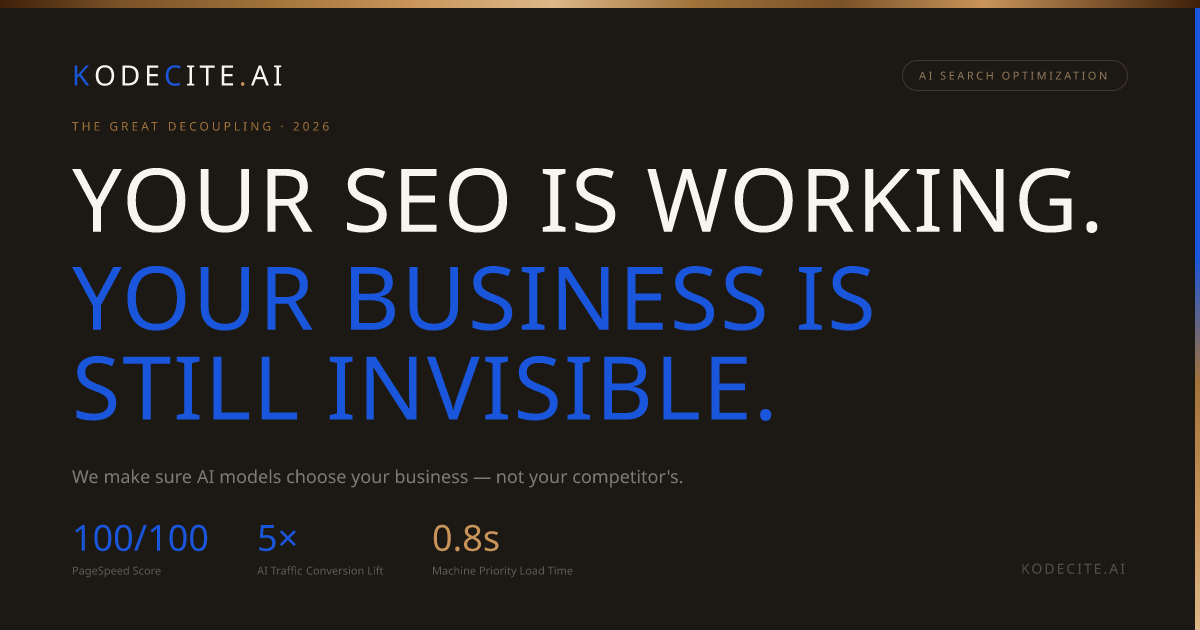
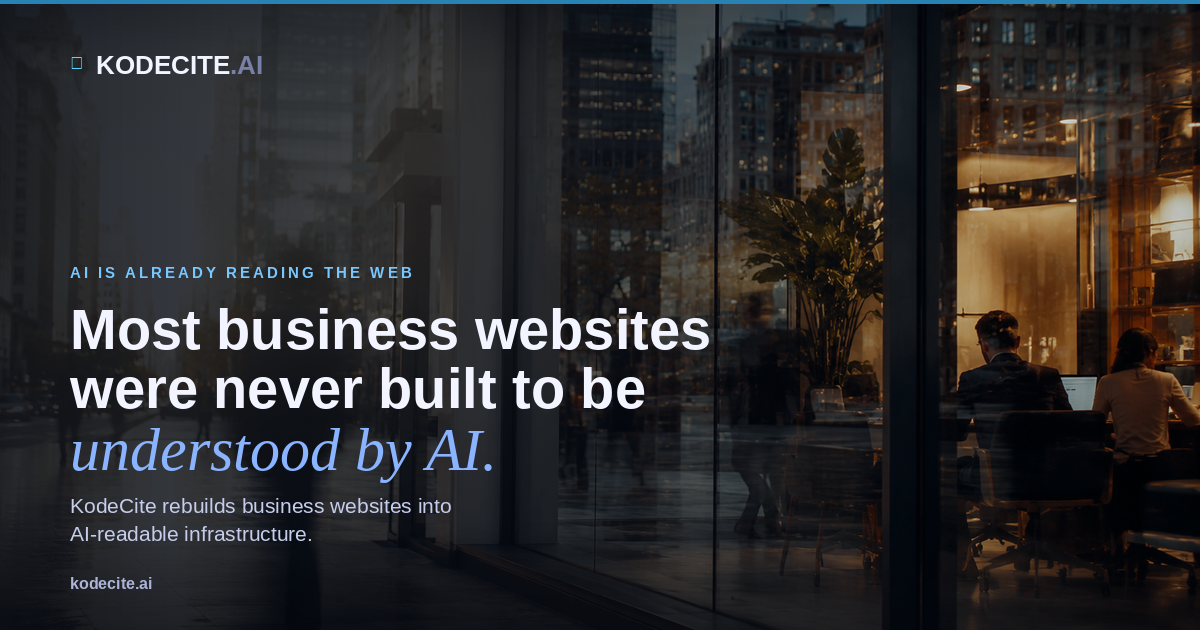
Share preview: new OG image matching the current homepage
The link preview showed the old card ("Built once. Owned forever. Found by AI."
on dark navy) because the homepage og:image was served by the dynamic
app/opengraph-image.tsx generator.

- Replace public/og-image.png with a baked 1200x630 card using the current
  golden-hour hero photo + the new headline ("Most business websites were never
  built to be understood by AI.") and KodeCite branding.
- Remove app/opengraph-image.tsx so og:image falls back to the static card.
- Point openGraph + twitter images at /og-image.png?v=2 (cache-bust so social
  platforms refetch) and add an alt.

Schema #logo reference and the /ready route's own OG image are untouched.

Claude-Session: https://claude.ai/code/session_012XMLbeSC1ddxCpUocfos6E

diff --git a/app/layout.tsx b/app/layout.tsx
@@ -83,7 +83,7 @@ export const metadata: Metadata = {
       'Schema.org has been the language of the internet for 15 years. An entity graph is Schema used correctly — the foundation that makes your business visible in both AI discovery and traditional search.',
     url: 'https://www.kodecite.ai',
     siteName: 'KodeCite.ai',
-    images: [{ url: 'https://www.kodecite.ai/og-image.png', width: 1200, height: 630 }],
+    images: [{ url: 'https://www.kodecite.ai/og-image.png?v=2', width: 1200, height: 630, alt: 'KodeCite.ai — AI-readable business infrastructure' }],
     locale: 'en_US',
     type: 'website',
   },
@@ -92,7 +92,7 @@ export const metadata: Metadata = {
     title: 'KodeCite.ai — Entity Graph Infrastructure for AI & Traditional Search',
     description:
       'An entity graph is Schema.org used correctly. Almost no business has one built right. We build it — on infrastructure you own.',
-    images: ['https://www.kodecite.ai/og-image.png'],
+    images: ['https://www.kodecite.ai/og-image.png?v=2'],
   },
   robots: {
     index: true,